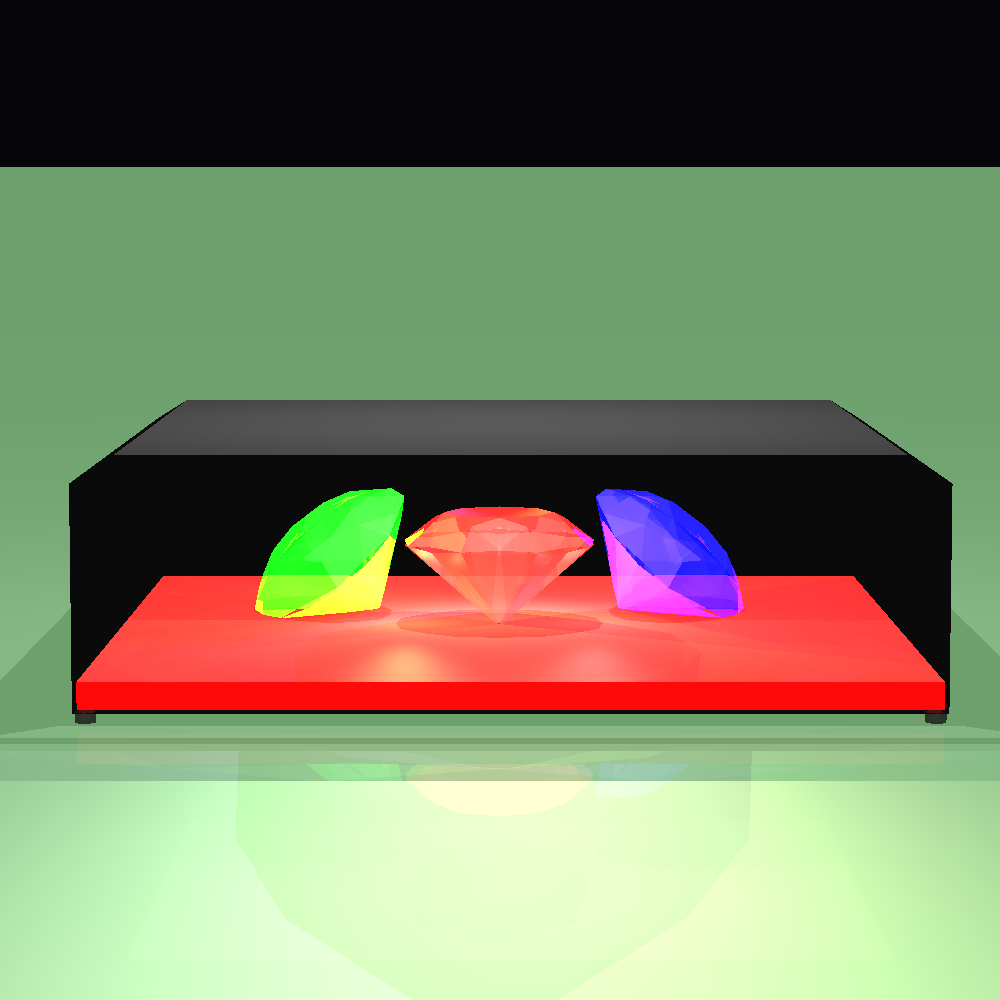
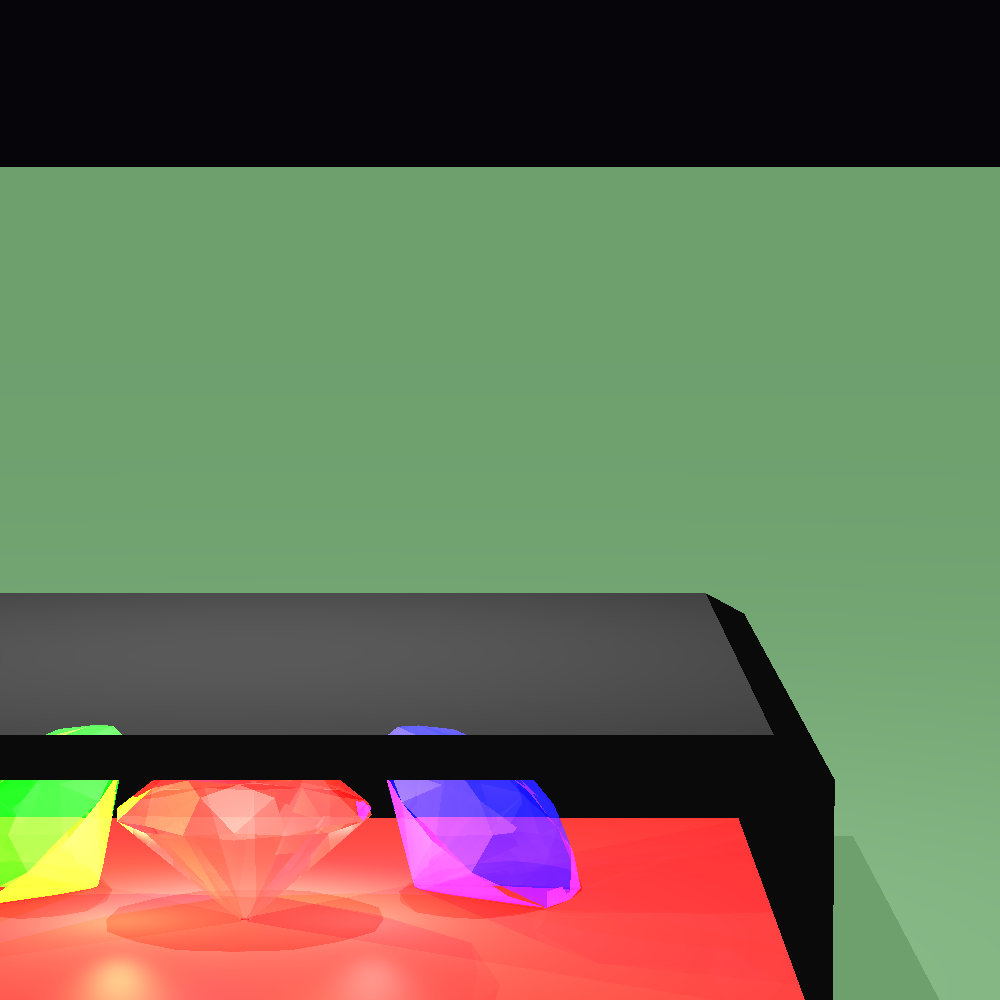
Added camera moving - without rotating for now

diff --git a/src/renderer/Camera.java b/src/renderer/Camera.java
@@ -94,6 +94,24 @@ public class Camera implements Cloneable {
         return new Builder();
     }
 
+    public Camera move(Vector direction, double distance) {
+        Vector movement = direction.normalize().scale(distance);
+        p0 = p0.add(movement);
+        return this;
+    }
+
+    public Camera moveForward(double distance) {
+        return move(Vto, distance);
+    }
+
+    public Camera moveRight(double distance) {
+        return move(Vright, distance);
+    }
+
+    public Camera moveUp(double distance) {
+        return move(Vup, distance);
+    }
+
 
     /**
      * Builder class for creating a Camera instance using the Builder pattern.
@@ -127,6 +145,7 @@ public class Camera implements Cloneable {
             }
             cam.Vto = vTo.normalize();
             cam.Vup = vUp.normalize();
+            cam.Vright = cam.Vto.crossProduct(cam.Vup).normalize();
             return this;
         }
 
@@ -143,9 +162,8 @@ public class Camera implements Cloneable {
                 throw new IllegalArgumentException("Target point cannot be the same as the camera location");
             }
             cam.Vto = target.subtract(cam.p0).normalize();
-            Vector vright = cam.Vto.crossProduct(vUp).normalize();
-            // we need to calculate the Vup vector again to ensure orthogonality
-            cam.Vup = vright.crossProduct(cam.Vto).normalize();
+            cam.Vright = cam.Vto.crossProduct(vUp).normalize();
+            cam.Vup = cam.Vright.crossProduct(cam.Vto).normalize();
             return this;
         }
 
@@ -346,6 +364,52 @@ public class Camera implements Cloneable {
             }
 
         }
+
+        /**
+         * Moves the camera in the specified direction by a given distance.
+         *
+         * @param direction the direction to move in
+         * @param distance  the distance to move
+         * @return the camera instance for method chaining
+         */
+        public Builder move(Vector direction, double distance) {
+            if (direction == null)
+                throw new IllegalArgumentException("Direction vector cannot be null");
+
+            Vector movement = direction.normalize().scale(distance);
+            cam.p0 = cam.p0.add(movement);
+            return this;
+        }
+
+        /**
+         * Moves the camera in the forward direction (Vto) by a specified distance.
+         *
+         * @param distance the distance to move forward
+         * @return the camera instance for method chaining
+         */
+        public Builder moveForward(double distance) {
+            return move(cam.Vto, distance);
+        }
+
+        /**
+         * Moves the camera in the backward direction (opposite to Vto) by a specified distance.
+         *
+         * @param distance the distance to move backward
+         * @return the camera instance for method chaining
+         */
+        public Builder moveRight(double distance) {
+            return move(cam.Vright, distance);
+        }
+
+        /**
+         * Moves the camera in the left direction (opposite to Vright) by a specified distance.
+         *
+         * @param distance the distance to move left
+         * @return the camera instance for method chaining
+         */
+        public Builder moveUp(double distance) {
+            return move(cam.Vup, distance);
+        }
     }
 
     /**
@@ -524,5 +588,4 @@ public class Camera implements Cloneable {
         }
         return this;
     }
-
 }

diff --git a/unittests/renderer/FunTests.java b/unittests/renderer/FunTests.java
@@ -20,6 +20,7 @@ public class FunTests {
      * Camera builder of the tests
      */
     private final Camera.Builder camera = Camera.getBuilder();
+
     @Test
     public void DiamondBox() {
         assertDoesNotThrow(() -> {
@@ -34,6 +35,9 @@ public class FunTests {
                     .setVpSize(150, 150)
                     .setMultithreading(-1)
                     .build()
+                    .moveRight(20)
+                    .moveUp(20)
+                    .moveForward(90)
                     .renderImage()
                     .writeToImage("multi diamond");
 
@@ -398,10 +402,10 @@ for (int i = 0; i < 20; i++) {
                 .setFocusPointDistance(110)
                 .setDirection(new Vector(0.02, -0.1, 0))
                 .setVpDistance(100)
-                .setResolution(1000, 500)
+                .setResolution(1000, 1000)
                 .setRayTracer(scene, RayTracerType.VOXEL)
                 .setAperture(0.2)
-                .setVpSize(150, 300);
+                .setVpSize(150, 150);
 
         camera.build()
                 .renderImage()
